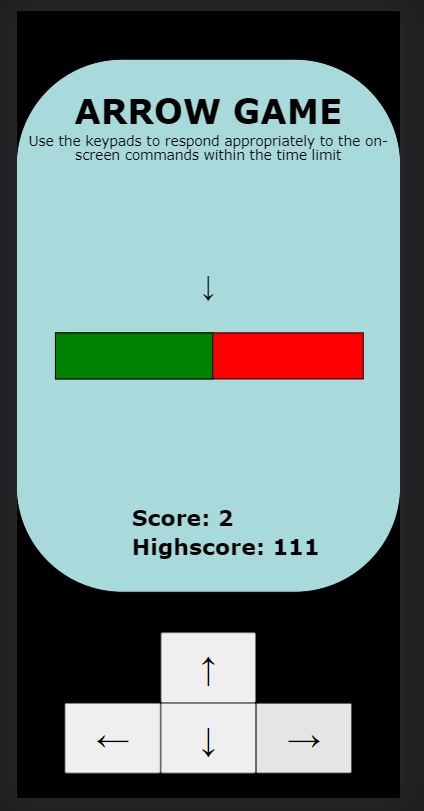
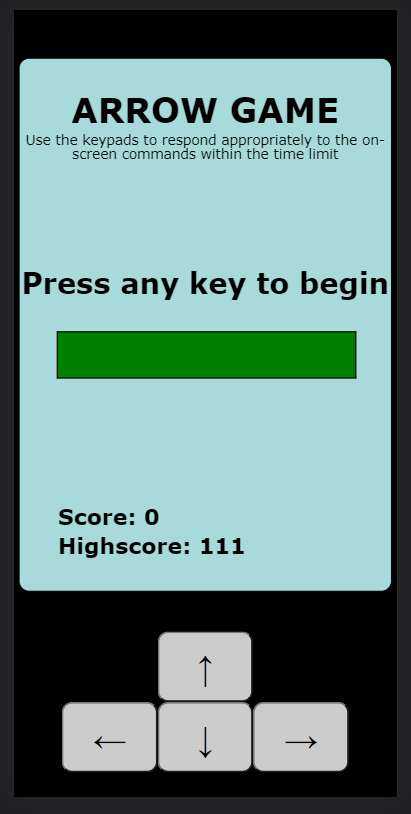
Add files via upload

diff --git a/ag.css b/ag.css
@@ -26,6 +26,7 @@ footer, header, hgroup, menu, nav, section {
 }
 body {
 	line-height: 1;
+    box-sizing: border-box;
 }
 ol, ul {
 	list-style: none;
@@ -56,7 +57,7 @@ h1 {
     background-color: #a8dadc;
     border: 1px solid black;
     width: 1000px;
-    max-width: 100%;
+    max-width: 97%;
     height: 500px;
 
     position: fixed;
@@ -107,7 +108,7 @@ body {
     font-size: 1.3em;
     position: absolute;
     bottom: 5%;
-    right: 45vw;
+    left: 25vw;
 }
 .highscore {
     padding: .3em 0em;
@@ -136,6 +137,9 @@ div#keypad.hide {
     width: 25vw;
     height: 9vh;
     font-size: 2em;
+    font-weight: 900;
+    border-radius: 10px;
+    background-color: #ccc;
 }
 #up {
     position: absolute;
@@ -151,8 +155,9 @@ div#keypad.hide {
     }
     .container {
         top: 40%;
+        border-radius: 10px;
     }
     .score {
-        left: 30vw;
+        left: 10vw;
     }
 }
